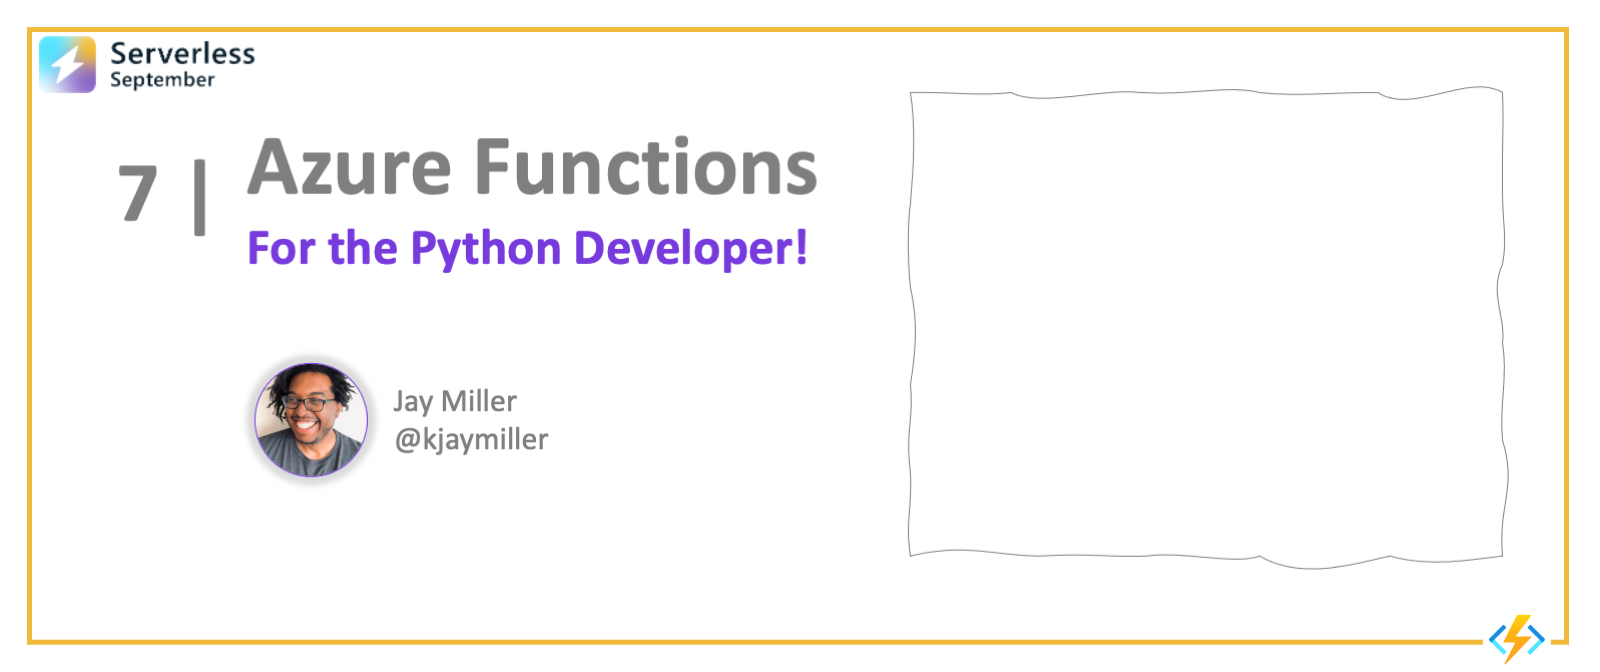
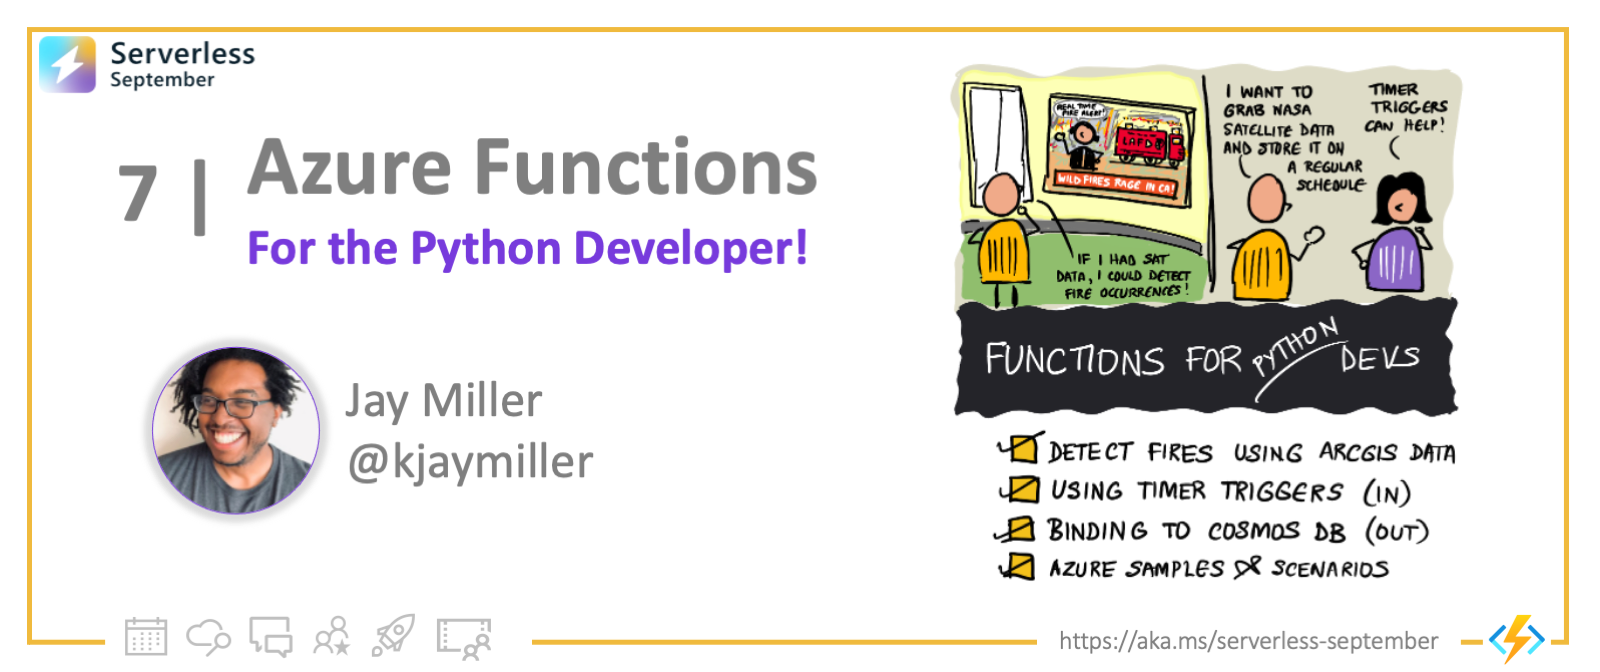
Post #07 / Ready

diff --git a/website/blog/2022-09-07/index.md b/website/blog/2022-09-07/index.md
@@ -8,17 +8,17 @@ toc_min_heading_level: 2
 toc_max_heading_level: 3
 keywords: [azure, functions, serverless, concepts]
 image: ./img/banner.png
-description: "Introduction to Azure Functions, from core concepts to hello world!" 
-tags: [serverless-september, 30-days-of-serverless, serverless-hacks, zero-to-hero, ask-the-expert, azure-functions, azure-container-apps, azure-event-grid, azure-logic-apps, serverless-e2e]
+description: "Let's build a wildfire detection site and application using Azure Functions for Python, with Timer Trigger and CosmosDB bindings!" 
+tags: [serverless-september, 30-days-of-serverless, azure-functions, python]
 ---
 
 <head>
   <meta name="twitter:url" 
-    content="https://azure.github.io/Cloud-Native/blog/functions-1" />
+    content="https://azure.github.io/Cloud-Native/blog07-functions-python" />
   <meta name="twitter:title" 
-    content="#30DaysOfServerless: Azure Functions Fundamentals" />
+    content="#30DaysOfServerless: Azure Functions For Python developers" />
   <meta name="twitter:description" 
-    content="#30DaysOfServerless: Azure Functions Fundamentals" />
+    content="#30DaysOfServerless: Azure Functions For Python developers" />
   <meta name="twitter:image"
     content="https://azure.github.io/Cloud-Native/img/banners/post-kickoff.png" />
   <meta name="twitter:card" content="summary_large_image" />
@@ -33,19 +33,34 @@ tags: [serverless-september, 30-days-of-serverless, serverless-hacks, zero-to-he
 
 Welcome to `Day 7` of #30DaysOfServerless!
 
-The theme for this week is Azure Functions. We'll talk about ...
+Over the past couple of days, we've explored Azure Functions from the perspective of specific programming languages. Today we'll continue that trend by looking at Python - exploring the Timer Trigger and CosmosDB binding, and showcasing integration with a FastAPI-implemented web app.
+
+Ready? Let's go.
 
 ---
 
 ## What We'll Cover
- * Section 1
- * Section 2
- * Section 3
- * Section 4
- * Exercise: Try this yourself!
- * Resources: For self-study!
+ * **Developer Guidance**: Azure Functions On Python
+ * **Build & Deploy**: Wildfire Detection Apps with Timer Trigger + CosmosDB
+ * **Demo: My Fire Map App**: Using FastAPI and Azure Maps to visualize data
+ * **Next Steps**: Explore Azure Samples
+ * **Exercise**: Try this yourself!
+ * **Resources**: For self-study!
 
 ![](./img/banner.png)
+
+
+---
+
+## Developer Guidance
+If you're a Python developer new to serverless on Azure, start with the [Azure Functions Python Developer Guide](https://docs.microsoft.com/en-us/azure/azure-functions/functions-reference-python?tabs=asgi%2Capplication-level&WT.mc_id=javascript-74010-cxa). It covers:
+
+* Quickstarts with Visual Studio Code and Azure CLI
+* Adopting best practices for hosting, reliability and efficiency.
+* Tutorials showcasing Azure automation, image classification and more
+* Samples showcasing Azure Functions features for Python developers
+
+Now let's dive in and build our first Python-based Azure Functions app.
 
 ---
 
@@ -62,11 +77,12 @@ I want to get the information but I don't want to ping NASA or another service e
 What if I occaisionally download all the data I need? Then I can ping that as much as I like.
 
 I can create a script that does just that. Any time I say _I can create a script_ that is a verbal queue for me to consider using an Azure function. With the function being ran in the cloud, I can ensure the script runs even when I'm not at my computer. 
-## How the Timer Trigger Works
+
+### How the Timer Trigger Works
 
 This function will utilize the Timer Trigger. This means Azure will call this function to run at a scheduled interval. This isn't the only way to keep the data in sync, but we know that arcgis, the service that we're using says that data is only updated every 30 minutes or so.
 
-To learn more about the TimerTrigger as a concept, check out the [Azure Functions documentation around Timers](https://docs.microsoft.com/en-us/azure/azure-functions/functions-bindings-timer?tabs=in-process&pivots=programming-language-python).
+To learn more about the TimerTrigger as a concept, check out the [Azure Functions documentation around Timers](https://docs.microsoft.com/en-us/azure/azure-functions/functions-bindings-timer?tabs=in-process&pivots=programming-language-python&WT.mc_id=javascript-74010-cxa).
 
 When we create the function we tell it a few things like where the script will live (in our case in `__init__.py`) the type and direction and notably _often it should run_. We specify the timer using `schedule": <The CRON INTERVAL>`. For us we're using `0 0,30 * * *` which means every 30 minutes at the hour and half-hour.
 
@@ -86,7 +102,7 @@ When we create the function we tell it a few things like where the script will l
 
 Next, we create the code that runs when the function is called.
 
-## Connecting to the Database and our Source
+### Connecting to the Database and our Source
 
 > Disclaimer: The data that we're pulling is for educational purposes only. This is not meant to be a production level application. You're welcome play with this project but ensure that you're using the data [in compliance with Esri](https://www.esri.com/en-us/legal/overview).
 
@@ -116,7 +132,7 @@ def write_new_file_data(gis_id:str, layer:int=0) -> FeatureSet:
 
 Then we need to store the data in our database.
 
-We're using [Cosmos DB](https://docs.microsoft.com/en-us/azure/cosmos-db/introduction) for this. COSMOSDB is a NoSQL database, which means that the data looks a lot like a python dictionary as it's JSON. This means that we don't need to worry about converting the data into a format that can be stored in a relational database.
+We're using [Cosmos DB](https://docs.microsoft.com/en-us/azure/cosmos-db/introduction?WT.mc_id=javascript-74010-cxa) for this. COSMOSDB is a NoSQL database, which means that the data looks a lot like a python dictionary as it's JSON. This means that we don't need to worry about converting the data into a format that can be stored in a relational database.
 
 The second reason is that Cosmos DB is tied into the Azure ecosystem so that if we want to create functions Azure events around it, we can.
 
@@ -143,7 +159,7 @@ async def main(reqTimer: func.TimerRequest) -> None:
     await update_db.load_and_write(gis_id=GIS_LAYER_ID, database=database, container=container)
 ```
 
-Then we deploy the function to Azure. I like to use VS Code's Azure Extension but you can also deploy it [a few other ways](https://docs.microsoft.com/en-us/azure/azure-functions/functions-deployment-technologies).
+Then we deploy the function to Azure. I like to use VS Code's Azure Extension but you can also deploy it [a few other ways](https://docs.microsoft.com/en-us/azure/azure-functions/functions-deployment-technologies?WT.mc_id=javascript-74010-cxa).
 
 ![Deploying the function via VS Code](img/Deploy%20to%20Function%20App%20using%20VS%20Code.png)
 
@@ -153,10 +169,10 @@ Once the function is deployed we can load the Azure portal and see a ping whenev
 We can also see the data now living in the datastore.
 ![Document in Cosmos DB](img/Data%20Explorer.png)
 
-## It's in the Database, Now What?
+### It's in the Database, Now What?
 Now the real fun begins. We just loaded the last bit of fire data into a database. We can now query that data and serve it to others. 
 
-As I mentioned before, our Cosmos DB data is also stored in Azure, which means that we can deploy Azure Functions [to trigger when new data is added](https://docs.microsoft.com/en-us/azure/azure-functions/functions-bindings-cosmosdb-v2?tabs=in-process%2Cfunctionsv2&pivots=programming-language-python). Perhaps you can use this to check for fires near you and use a [Logic App](https://docs.microsoft.com/en-us/azure/logic-apps/logic-apps-overview) to send an alert to your phone or email.
+As I mentioned before, our Cosmos DB data is also stored in Azure, which means that we can deploy Azure Functions [to trigger when new data is added](https://docs.microsoft.com/en-us/azure/azure-functions/functions-bindings-cosmosdb-v2?tabs=in-process%2Cfunctionsv2&pivots=programming-language-python&WT.mc_id=javascript-74010-cxa). Perhaps you can use this to check for fires near you and use a [Logic App](https://docs.microsoft.com/en-us/azure/logic-apps/logic-apps-overview?WT.mc_id=javascript-74010-cxa) to send an alert to your phone or email.
 
 Another option is to create a web application that talks to the database and displays the data. I've created an example of this using FastAPI – <https://jm-func-us-fire-notify.azurewebsites.net>.
 
@@ -164,4 +180,15 @@ Another option is to create a web application that talks to the database and dis
 
 ## Exercise
 
-I encourage you to fork [the repository](https://github.com/kjaymiller/fire-map). There you can see the TimerTrigger and a HTTPTrigger building the website. Perhaps if wildfires are a big thing in your area, you can use some of the data available in [Planetary Computer](https://planetarycomputer.microsoft.com) to check out some other datasets.
+I encourage you to fork [the repository](https://github.com/kjaymiller/fire-map) and try building and deploying it yourself! You can see the TimerTrigger and a HTTPTrigger building the website. 
+
+Then try extending it. Perhaps if wildfires are a big thing in your area, you can use some of the data available in [Planetary Computer](https://planetarycomputer.microsoft.com?WT.mc_id=javascript-74010-cxa) to check out some other datasets.
+
+
+## Resources
+
+ * [Azure For Functions Python Developer Guide](https://docs.microsoft.com/en-us/azure/azure-functions/functions-reference-python?tabs=asgi%2Capplication-level&WT.mc_id=javascript-74010-cxa)
+ * [Python Quickstart: Create Your First Function App](https://docs.microsoft.com/en-us/azure/azure-functions/create-first-function-vs-code-python?WT.mc_id=javascript-74010-cxa)
+ * [Use FastAPI Framework With Azure Functions](https://docs.microsoft.com/en-us/samples/azure-samples/fastapi-on-azure-functions/azure-functions-python-create-fastapi-app/?WT.mc_id=javascript-74010-cxa)
+ * [Use Flask Framework with Azure Functions](https://docs.microsoft.com/en-us/samples/azure-samples/flask-app-on-azure-functions/azure-functions-python-create-flask-app/?WT.mc_id=javascript-74010-cxa)
+ * [Tutorial: Apply ML models in Azure Functions with Python and TensorFlow](https://docs.microsoft.com/en-us/azure/azure-functions/functions-machine-learning-tensorflow?tabs=bash&WT.mc_id=javascript-74010-cxa)

diff --git a/website/blog/2022-09-05/index.md b/website/blog/2022-09-05/index.md
@@ -224,7 +224,7 @@ Once you've tried out the samples, try building an end-to-end scenario by using 
 
 ## Exercise: Support searching
 
-The GitHub Serach API allows you to provide search parameters via the `q` query string. In this sample, we hard-coded it to be `language:javascript`, but as a follow-on exercise, expand the Function to allow the caller to provide the search terms as a query string to the Azure Function, which is passed to the GitHub Search API. Hint - have a look at the `req` argument.
+The GitHub Search API allows you to provide search parameters via the `q` query string. In this sample, we hard-coded it to be `language:javascript`, but as a follow-on exercise, expand the Function to allow the caller to provide the search terms as a query string to the Azure Function, which is passed to the GitHub Search API. Hint - have a look at the `req` argument.
 
 ## Resources
 
